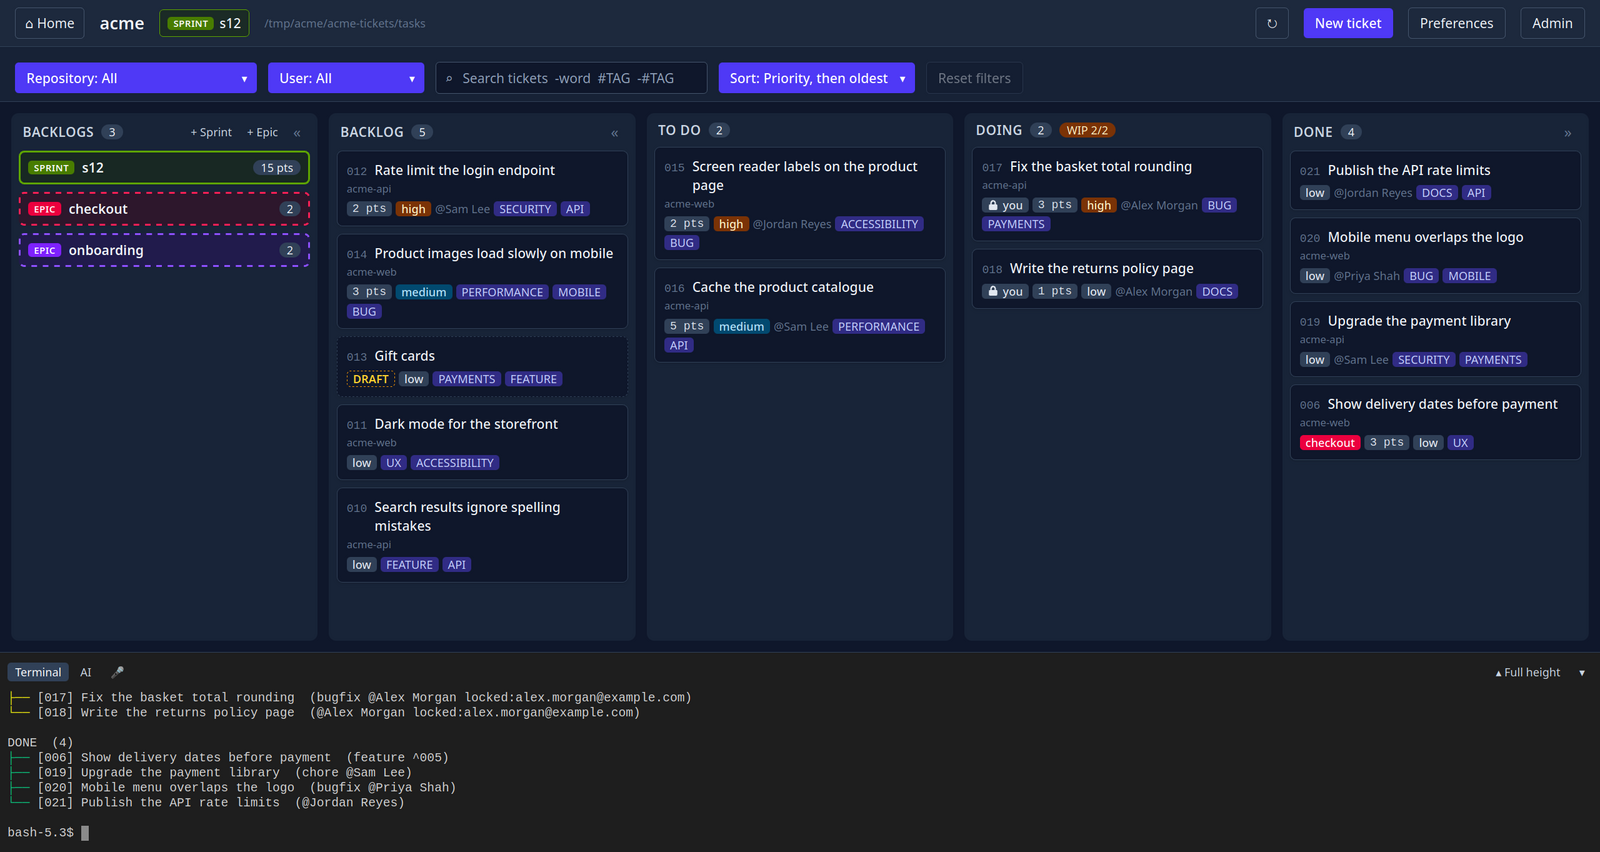
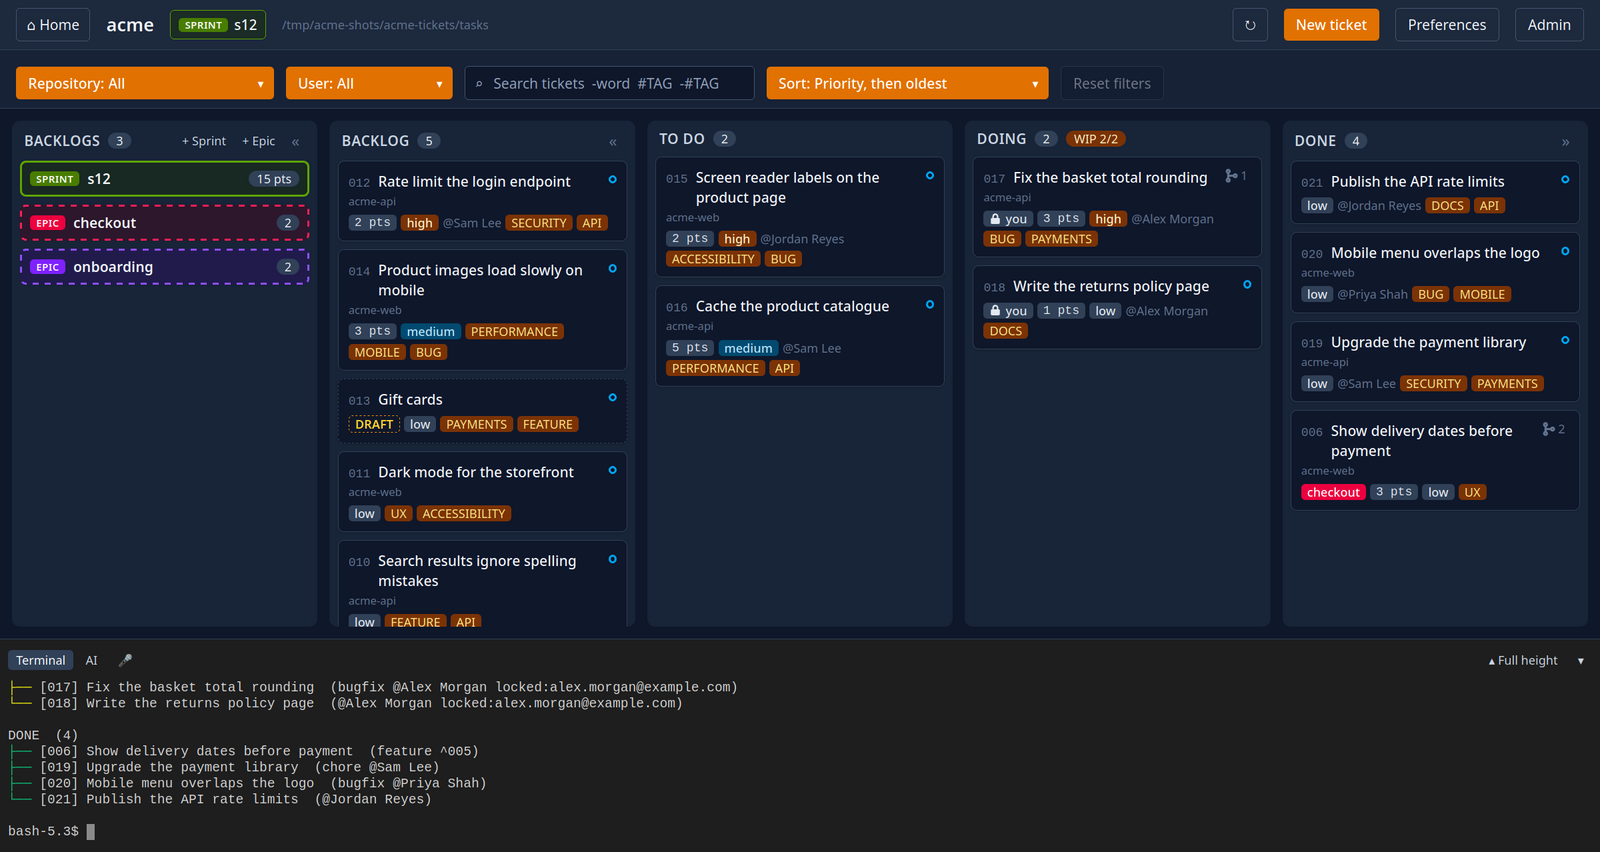
docs: newer features in the README and site, screenshots in light and dark with every accent (211-features-page-readme-features-github-pages-site-an, ticket 205)
Screenshots retaken on a fresh demo board: board dark indigo, ticket light
teal (with Save and New), roadmap dark rose, documents light amber, ideas
dark teal, home light indigo, panel dark amber. Features lists gain typed
links and the tree, Save and New, custom columns and flow rules, done
waiting, auto priority and the Automatic sort, and new repositories.

diff --git a/pages/index.html b/pages/index.html
@@ -53,7 +53,9 @@
           <h3>Tickets</h3>
           <ul>
             <li>One flexible ticket, from templates you can change</li>
-            <li>Priority, points, assignee, tags, parent and related links</li>
+            <li>Priority, points, assignee, tags and repository</li>
+            <li>Typed links (requires, related, parent, supersedes) and a tree of them</li>
+            <li>Save and New for a ticket that depends on one not made yet</li>
             <li>Drafts that can't leave the backlog until ready</li>
             <li>A git branch per ticket when work starts</li>
             <li>Search and filters</li>
@@ -62,7 +64,9 @@
         <article>
           <h3>Workflow rules</h3>
           <ul>
-            <li>One column at a time: backlog, todo, doing, done</li>
+            <li>One column at a time, unless the team allows other moves</li>
+            <li>Your own columns: Triage, Review, Released and more</li>
+            <li>Done waits for what a ticket requires and its children</li>
             <li>A WIP limit on doing</li>
             <li>Locks while a ticket is being worked on</li>
             <li>Every change committed and pushed, boards kept in step</li>
@@ -72,6 +76,7 @@
           <h3>Planning</h3>
           <ul>
             <li>Epics and sprints, both optional</li>
+            <li>Auto priority from requires links, and a what's-needed-first sort</li>
             <li>Roadmaps with milestones, working days and time left</li>
             <li>My work across every project on your machine</li>
           </ul>
@@ -90,6 +95,7 @@
           <ul>
             <li><code>amd init</code> and <code>amd join</code> set a project up</li>
             <li>Several repositories per project, several projects</li>
+            <li>New repositories made from the ticket that needs them</li>
             <li>Team settings for admins; your own preferences</li>
             <li>GitHub issues arrive as tickets to triage</li>
             <li>Deleted tickets recovered from history</li>

diff --git a/README.md b/README.md
@@ -59,7 +59,12 @@ no daemon, no database.
 
 - **One flexible ticket**, rendered from templates each project can change.
 - **Fields:** priority, story points (1, 2, 3, 5, 8, 13), assignee from the
-  project's users, tags, the repository it's about, parent and related links.
+  project's users, tags and the repository it's about.
+- **Typed links:** requires, related, parent and child, clone, supersedes,
+  each written on both tickets and changeable later. A tree draws what each
+  ticket requires and relates to, and cards show how many links they have.
+- **Save and New:** found a ticket depends on one that doesn't exist yet?
+  Save it and make the missing one, already linked.
 - **Who created it** is recorded; **who last edited it** comes from git.
 - **Tags** are uppercase and can be limited to the project's own list; DRAFT
   and TRIAGE are built in.
@@ -70,7 +75,12 @@ no daemon, no database.
 
 ### Workflow rules
 
-- **One column at a time:** backlog → todo → doing → done, never a jump.
+- **One column at a time:** backlog → todo → doing → done, unless the team
+  allows other moves.
+- **Your own columns:** add Triage, Review, Released and the like, rename,
+  reorder and remove them; each has a kind that decides what it does, and
+  reset puts the standard four back.
+- **Done waits** for the tickets a ticket requires and for its children.
 - **A WIP limit on doing** (2 unless changed), with a deliberate override.
 - **Locks:** a ticket is yours while it's in doing and is released when it
   leaves; someone else's lock is only broken on purpose.
@@ -81,7 +91,9 @@ no daemon, no database.
 ### Planning
 
 - **Epics and sprints**, both optional; a started sprint takes nothing more
-  and gives nothing back.
+  and gives nothing back, and can't start while it needs a ticket outside it.
+- **Auto priority** (optional): a ticket is at least as urgent as what
+  requires it, and the **Automatic** sort shows what's needed first.
 - **Roadmaps:** one per board, made of milestones that create its epics or
   sprints, with working days, time left and whether each is on track.
 - **My work:** your todo and doing tickets across every project on your
@@ -101,7 +113,8 @@ no daemon, no database.
 
 - **`amd init`** creates a project's repositories on GitHub; **`amd join`**
   gives a teammate the project and adds them as a user.
-- **Several repositories per project**, and several projects side by side.
+- **Several repositories per project**, and several projects side by side;
+  a new repository can be made from the ticket that needs it.
 - **Admin** settings are committed for the team; **Preferences** are your
   own, on your machine.
 - **Archive a project** to make it read-only, on GitHub too if you like.
